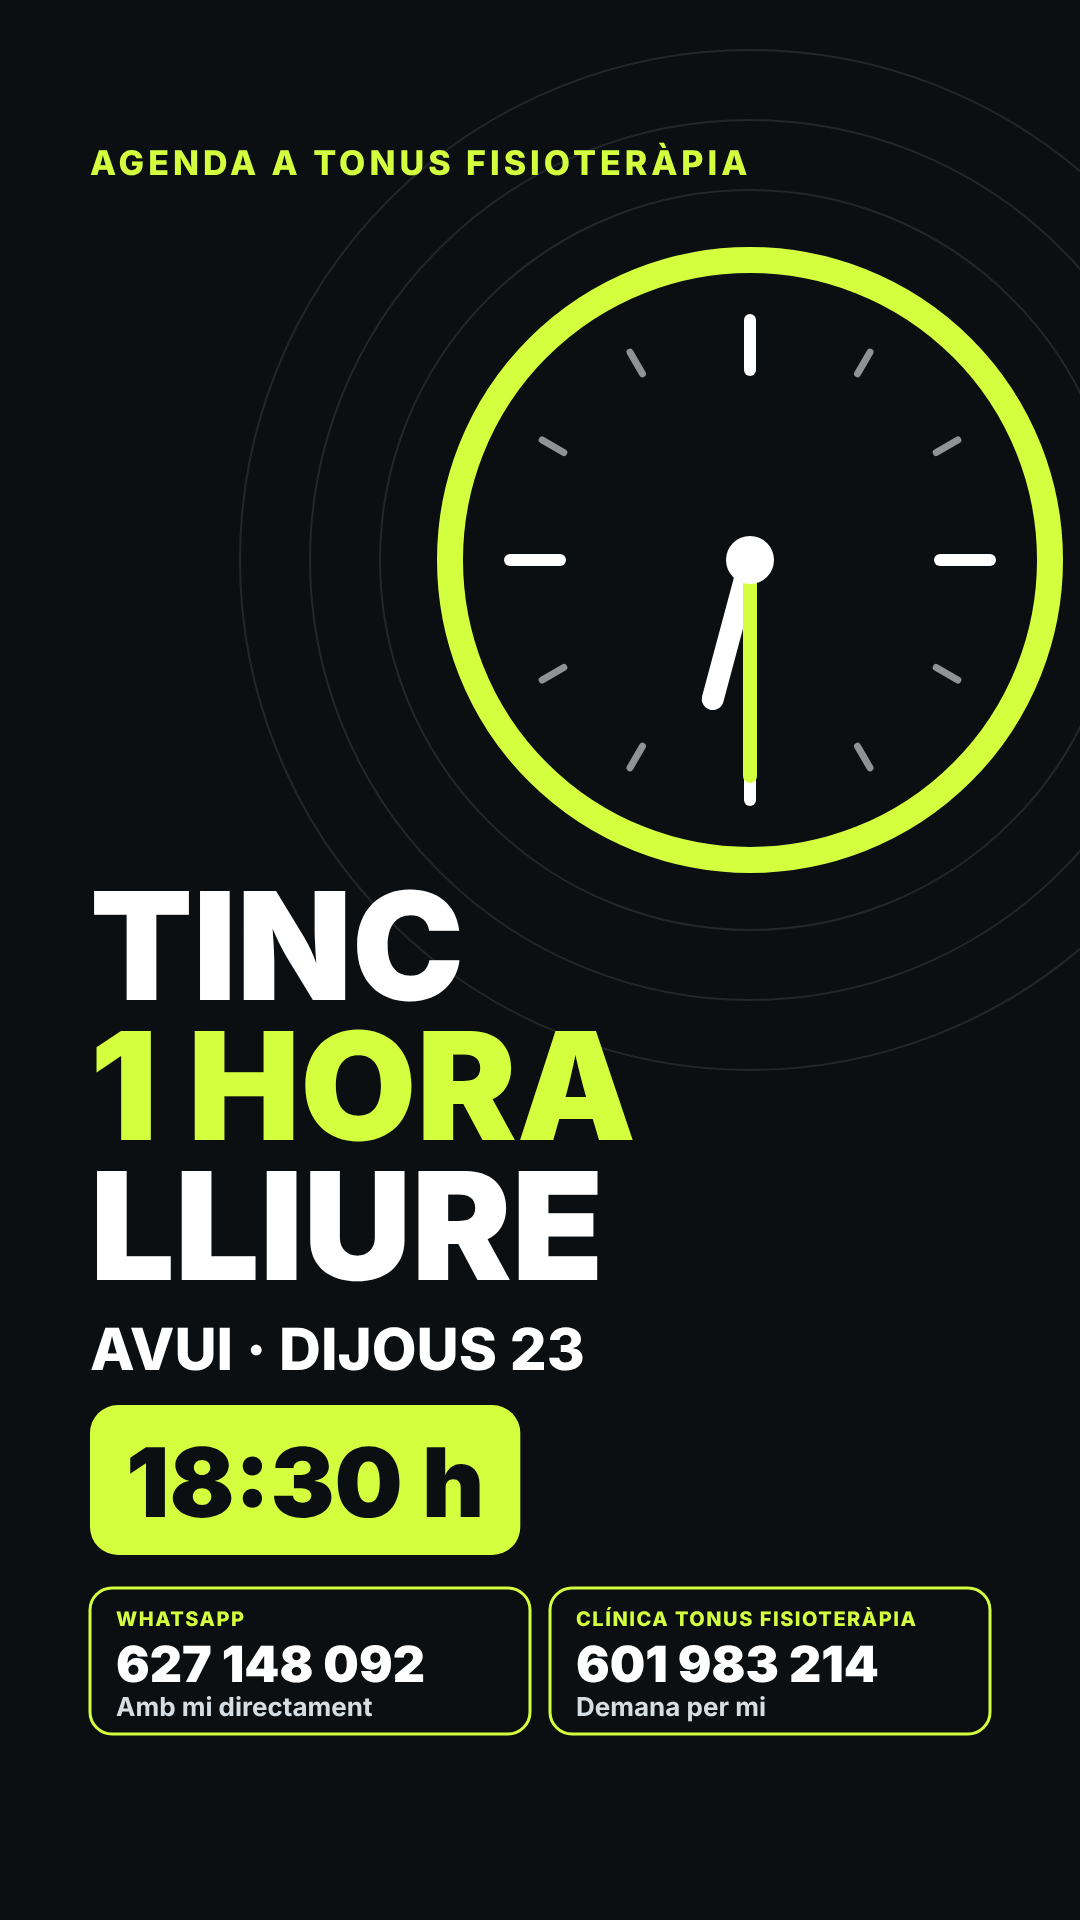
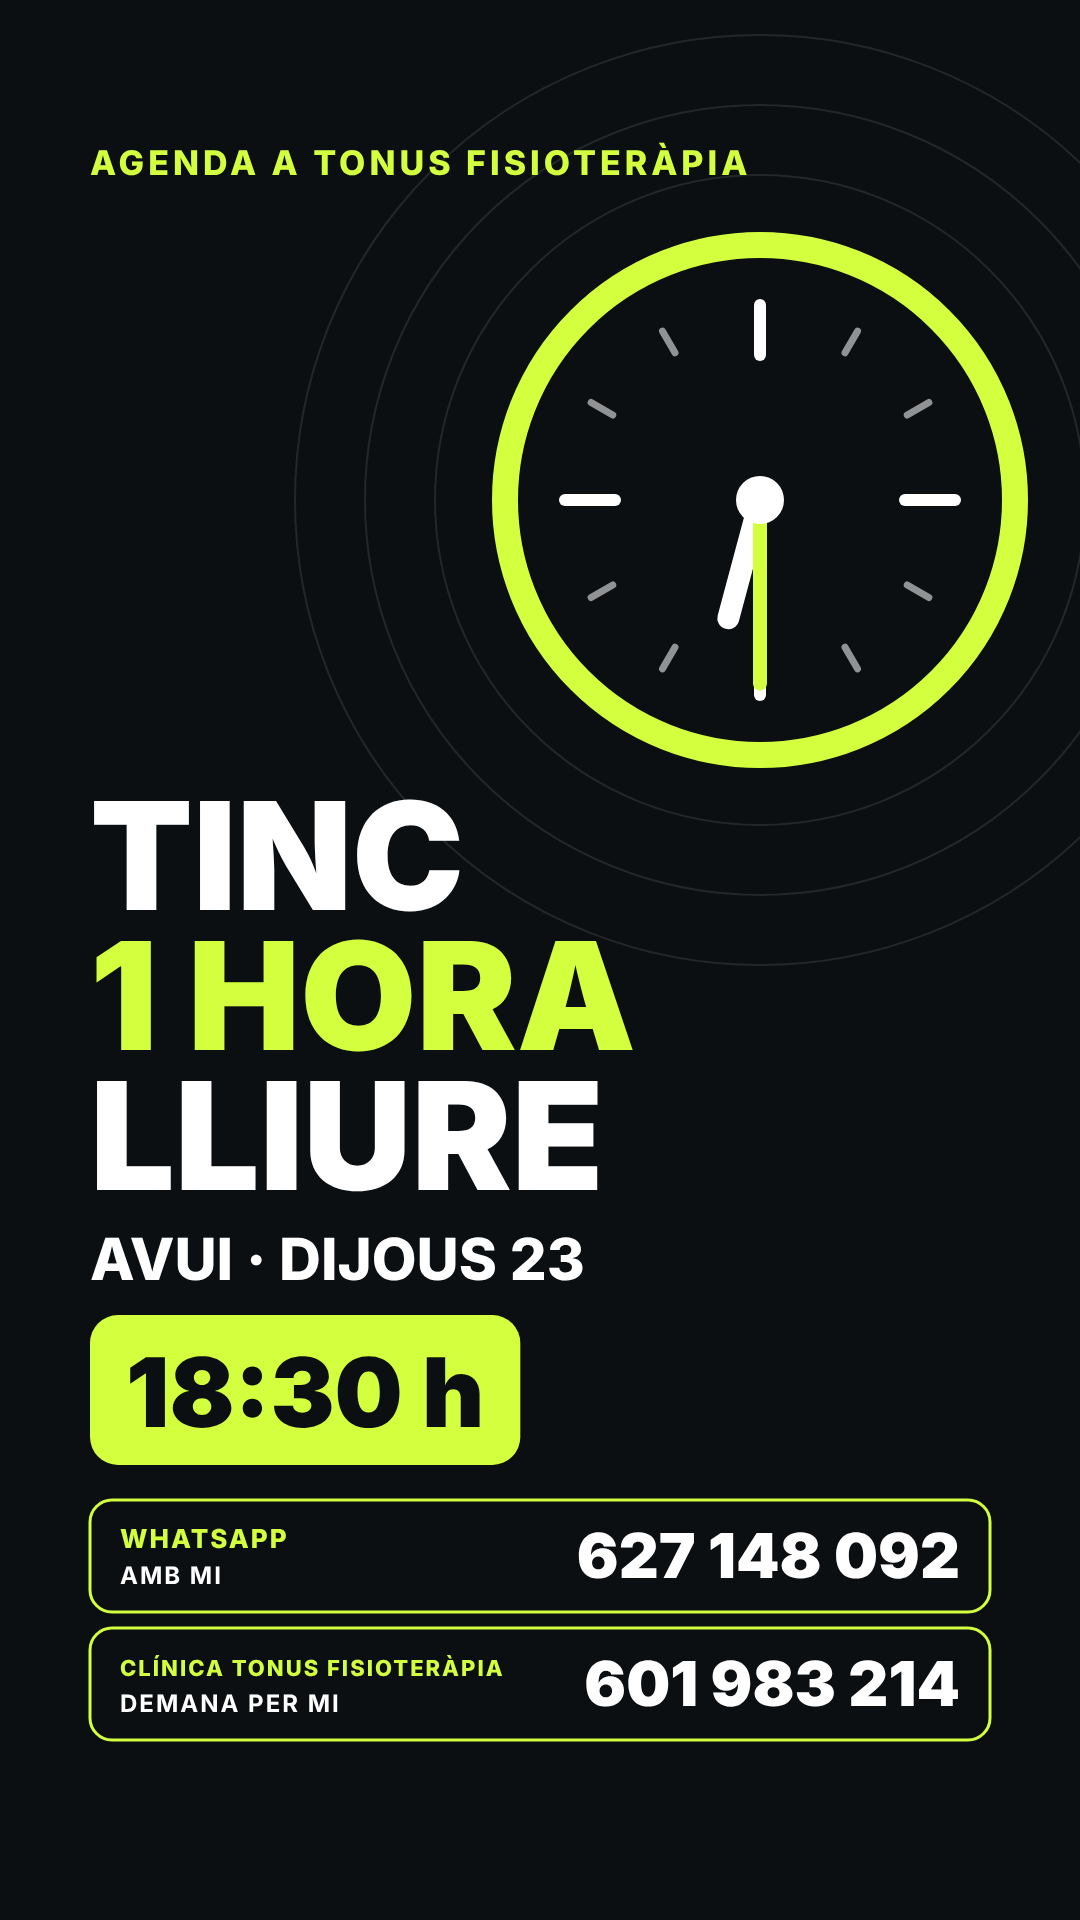
Story Hores lliures: contactes a tot l'ample
Claude-Session: https://claude.ai/code/session_0129rqGdsRmN9Z9aLzGCda8A

diff --git a/templates/story_hores_lliures.html b/templates/story_hores_lliures.html
@@ -91,7 +91,7 @@ let bg='rellotge';
 
 function drawBg(W,H){
   if(bg==='rellotge'){
-    const cx=W-330, cy=560, r=300;
+    const cx=W-320, cy=500, r=255;
     ctx.strokeStyle='rgba(255,255,255,.10)'; ctx.lineWidth=2;
     for(let i=1;i<=3;i++){ctx.beginPath();ctx.arc(cx,cy,r+i*70,0,Math.PI*2);ctx.stroke();}
     ctx.strokeStyle=ACC; ctx.lineWidth=26; ctx.beginPath(); ctx.arc(cx,cy,r,0,Math.PI*2); ctx.stroke();
@@ -148,16 +148,16 @@ function draw(){
   // title
   const t1='TINC', t2= hours.length>1?'2 HORES':'1 HORA', t3= hours.length>1?'LLIURES':'LLIURE';
   ctx.font='900 150px Inter'; ctx.fillStyle='#fff';
-  ctx.fillText(t1,L,1000);
-  ctx.fillStyle=ACC; ctx.fillText(t2,L,1140);
-  ctx.fillStyle='#fff'; ctx.fillText(t3,L,1280);
+  ctx.fillText(t1,L,910);
+  ctx.fillStyle=ACC; ctx.fillText(t2,L,1050);
+  ctx.fillStyle='#fff'; ctx.fillText(t3,L,1190);
 
   // day line
   const dl=[day,date].filter(Boolean).join(' · ');
-  if(dl){const s=fit(dl.toUpperCase(),W-2*L,58,'800');ctx.fillStyle='#fff';ctx.font=`800 ${s}px Inter`;ctx.fillText(dl.toUpperCase(),L,1370);}
+  if(dl){const s=fit(dl.toUpperCase(),W-2*L,58,'800');ctx.fillStyle='#fff';ctx.font=`800 ${s}px Inter`;ctx.fillText(dl.toUpperCase(),L,1280);}
 
   // hour chips
-  let x=L; const y=1405, h=150;
+  let x=L; const y=1315, h=150;
   hours.forEach(hh=>{
     const t=hh+' h'; ctx.font='900 96px Inter'; const w=ctx.measureText(t).width+72;
     ctx.fillStyle=ACC; rr(x,y,w,h,28); ctx.fill();
@@ -167,15 +167,18 @@ function draw(){
 
   // note
 
-  // contact (small, low): WhatsApp personal + clínica
-  const cy=1588, gap=20, cw=(W-2*L-gap)/2, ch=146;
-  [['WHATSAPP','627 148 092','Amb mi directament'],['CLÍNICA TONUS FISIOTERÀPIA','601 983 214','Demana per mi']].forEach(([k,v,s],i)=>{
-    const x=L+i*(cw+gap), iw=cw-52;
-    ctx.strokeStyle=ACC; ctx.lineWidth=3; rr(x,cy,cw,ch,22); ctx.stroke();
-    ctx.letterSpacing='1.5px'; let fs=20; do{ctx.font=`800 ${fs}px Inter`; if(ctx.measureText(k).width<=iw) break; fs--;}while(fs>14);
-    ctx.fillStyle=ACC; ctx.fillText(k,x+26,cy+38); ctx.letterSpacing='0px';
-    ctx.font='900 50px Inter'; ctx.fillStyle='#fff'; ctx.fillText(v,x+26,cy+94);
-    ctx.font='700 26px Inter'; ctx.fillStyle='#D6DEE3'; ctx.fillText(s,x+26,cy+128);
+  // contact: dues files a tot l'ample
+  const rows=[[['WHATSAPP','AMB MI'],'627 148 092'],[['CLÍNICA TONUS FISIOTERÀPIA','DEMANA PER MI'],'601 983 214']];
+  const rw=W-2*L, rh=112; let ry=1500;
+  rows.forEach(([lab,num])=>{
+    ctx.strokeStyle=ACC; ctx.lineWidth=3; rr(L,ry,rw,rh,22); ctx.stroke();
+    ctx.font='900 62px Inter'; ctx.fillStyle='#fff'; ctx.textAlign='right'; ctx.fillText(num,W-L-30,ry+78); ctx.textAlign='left';
+    const nw=ctx.measureText(num).width, maxLab=rw-nw-90;
+    ctx.letterSpacing='2px';
+    const s1=fit(lab[0],maxLab,26,'800'); ctx.font=`800 ${s1}px Inter`; ctx.letterSpacing='2px'; ctx.fillStyle=ACC; ctx.fillText(lab[0],L+30,ry+48);
+    ctx.font='700 24px Inter'; ctx.fillStyle='#fff'; ctx.fillText(lab[1],L+30,ry+84);
+    ctx.letterSpacing='0px';
+    ry+=rh+16;
   });
 }
 
